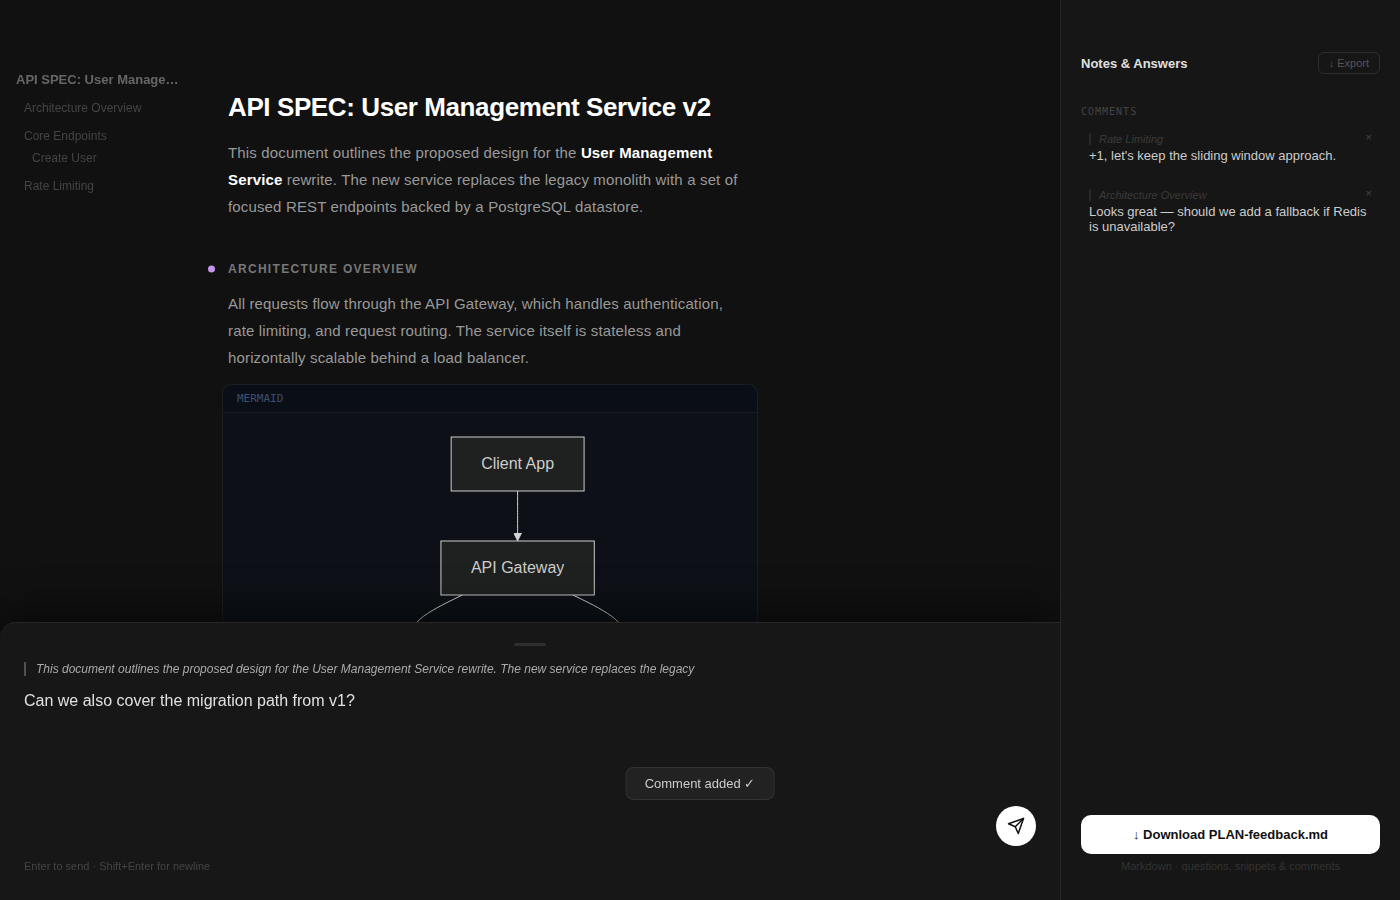
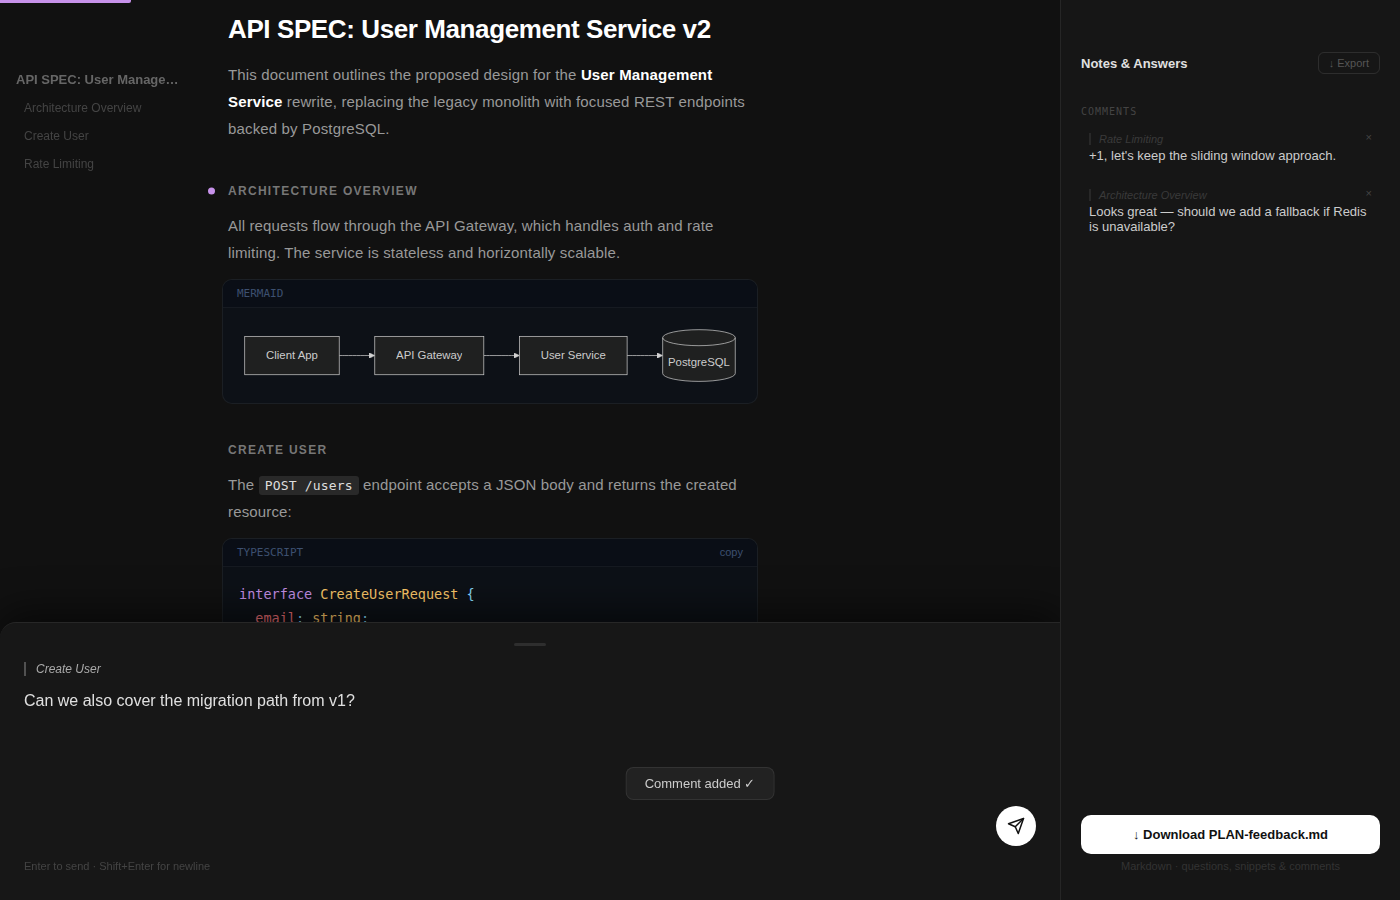
Simplify fixture to show mermaid, code, and question in one viewport
- Switch mermaid from graph TD (6 nodes) to graph LR (3 nodes) for a
  shorter vertical layout
- Remove the endpoints table — it takes space without showcasing a feature
- Trim prose between key elements
- Adjust screenshot test to scroll so mermaid diagram, syntax-highlighted
  code block, and inline question are all visible simultaneously

diff --git a/tests/capture-hero-screenshot.spec.ts b/tests/capture-hero-screenshot.spec.ts
@@ -14,18 +14,14 @@ test('capture README hero screenshot', async ({ apiSpecPage: page }) => {
   await page.setViewportSize({ width: 1400, height: 900 });
 
   // ── Step 1: Add an annotation on the "Architecture Overview" heading ──
-  // Click the heading to open the sheet
   const archHeading = page.locator('.el-h2', { hasText: 'Architecture Overview' });
   await archHeading.click();
   await expect(page.locator('.sheet.open')).toBeVisible();
 
-  // Wait for textarea focus, type comment, submit
   const sheetTextarea = page.locator('.sheet textarea');
   await expect(sheetTextarea).toBeFocused({ timeout: 5000 });
   await sheetTextarea.fill('Looks great — should we add a fallback if Redis is unavailable?');
   await page.locator('.sheet-send.active').click();
-
-  // Wait for the annotation dot to appear
   await expect(page.locator('.ann-dot').first()).toBeVisible({ timeout: 10000 });
 
   // ── Step 2: Add a second annotation on the "Rate Limiting" section ──
@@ -38,17 +34,20 @@ test('capture README hero screenshot', async ({ apiSpecPage: page }) => {
   await page.locator('.sheet-send.active').click();
   await expect(page.locator('.ann-dot').nth(1)).toBeVisible({ timeout: 10000 });
 
-  // ── Step 3: Scroll up and open comment drawer on a paragraph with in-progress text ──
-  // Click the intro paragraph to open the sheet with a draft comment
-  const introParagraph = page.locator('.el-p').first();
-  await introParagraph.scrollIntoViewIfNeeded();
-  await introParagraph.click();
+  // ── Step 3: Scroll so mermaid, code, and question are visible ──
+  // Click the Create User heading to open the comment drawer mid-page
+  const createUserHeading = page.locator('.el-h2', { hasText: 'Create User' });
+  await createUserHeading.scrollIntoViewIfNeeded();
+  await createUserHeading.click();
   await expect(page.locator('.sheet.open')).toBeVisible();
   await expect(sheetTextarea).toBeFocused({ timeout: 5000 });
   await sheetTextarea.fill('Can we also cover the migration path from v1?');
 
+  // Scroll so the Architecture Overview heading is near the top — this positions
+  // the mermaid diagram, code block, and question all within the viewport.
+  await archHeading.scrollIntoViewIfNeeded();
+
   // ── Step 4: Capture the screenshot ──
-  // Small delay to let any animations settle
   await page.waitForTimeout(500);
 
   const screenshot = await page.screenshot({ clip: { x: 0, y: 0, width: 1400, height: 900 } });

diff --git a/packages/core/tests/fixtures/api-spec.md b/packages/core/tests/fixtures/api-spec.md
@@ -1,55 +1,35 @@
 # API SPEC: User Management Service v2
 
-This document outlines the proposed design for the **User Management Service** rewrite. The new service replaces the legacy monolith with a set of focused REST endpoints backed by a PostgreSQL datastore.
+This document outlines the proposed design for the **User Management Service** rewrite, replacing the legacy monolith with focused REST endpoints backed by PostgreSQL.
 
 ## Architecture Overview
 
-All requests flow through the API Gateway, which handles authentication, rate limiting, and request routing. The service itself is stateless and horizontally scalable behind a load balancer.
+All requests flow through the API Gateway, which handles auth and rate limiting. The service is stateless and horizontally scalable.
 
 ```mermaid
-graph TD
+graph LR
     Client[Client App] --> GW[API Gateway]
-    GW --> Auth[Auth Middleware]
-    Auth --> US[User Service]
+    GW --> US[User Service]
     US --> DB[(PostgreSQL)]
-    US --> Cache[(Redis Cache)]
-    GW --> RL[Rate Limiter]
 ```
 
-## Core Endpoints
+## Create User
 
-The following table summarizes the primary endpoints:
-
-| Method | Path              | Description          |
-| ------ | ----------------- | -------------------- |
-| GET    | `/users`          | List users (paginated) |
-| POST   | `/users`          | Create a new user    |
-| GET    | `/users/:id`      | Fetch user by ID     |
-| PATCH  | `/users/:id`      | Update user fields   |
-| DELETE | `/users/:id`      | Soft-delete a user   |
-
-### Create User
-
-The `POST /users` endpoint accepts a JSON body and returns the created resource. Input is validated against the schema below.
+The `POST /users` endpoint accepts a JSON body and returns the created resource:
 
 ```typescript
 interface CreateUserRequest {
   email: string;
   displayName: string;
   role: "admin" | "editor" | "viewer";
-  metadata?: Record<string, unknown>;
 }
 
 async function createUser(req: CreateUserRequest): Promise<User> {
   const existing = await db.users.findByEmail(req.email);
-  if (existing) {
-    throw new ConflictError("email already registered");
-  }
+  if (existing) throw new ConflictError("email already registered");
   return db.users.insert({ ...req, createdAt: new Date() });
 }
 ```
-
-All error responses follow the standard `{ code, message, details }` envelope defined in the shared error module.
 
 ```question:choice
 id: q-auth-strategy
@@ -59,10 +39,6 @@ options: JWT with short-lived tokens | OAuth 2.0 + opaque tokens | API key per c
 
 ## Rate Limiting
 
-Requests are throttled at the gateway level using a sliding-window algorithm. Defaults are **100 requests per minute** per API key, configurable per tier.
+Requests are throttled using a sliding-window algorithm. Defaults are **100 req/min** per API key, configurable per tier.
 
-> **Note:** Burst allowances may be granted to internal services on a case-by-case basis. Contact the platform team for details.
-
-- Rate limit headers (`X-RateLimit-Remaining`, `X-RateLimit-Reset`) are included in every response.
-- Exceeding the limit returns `429 Too Many Requests` with a `Retry-After` header.
-- Authenticated admin endpoints have a separate, higher limit pool.
+> **Note:** Burst allowances may be granted to internal services on a case-by-case basis. Contact the platform team.
